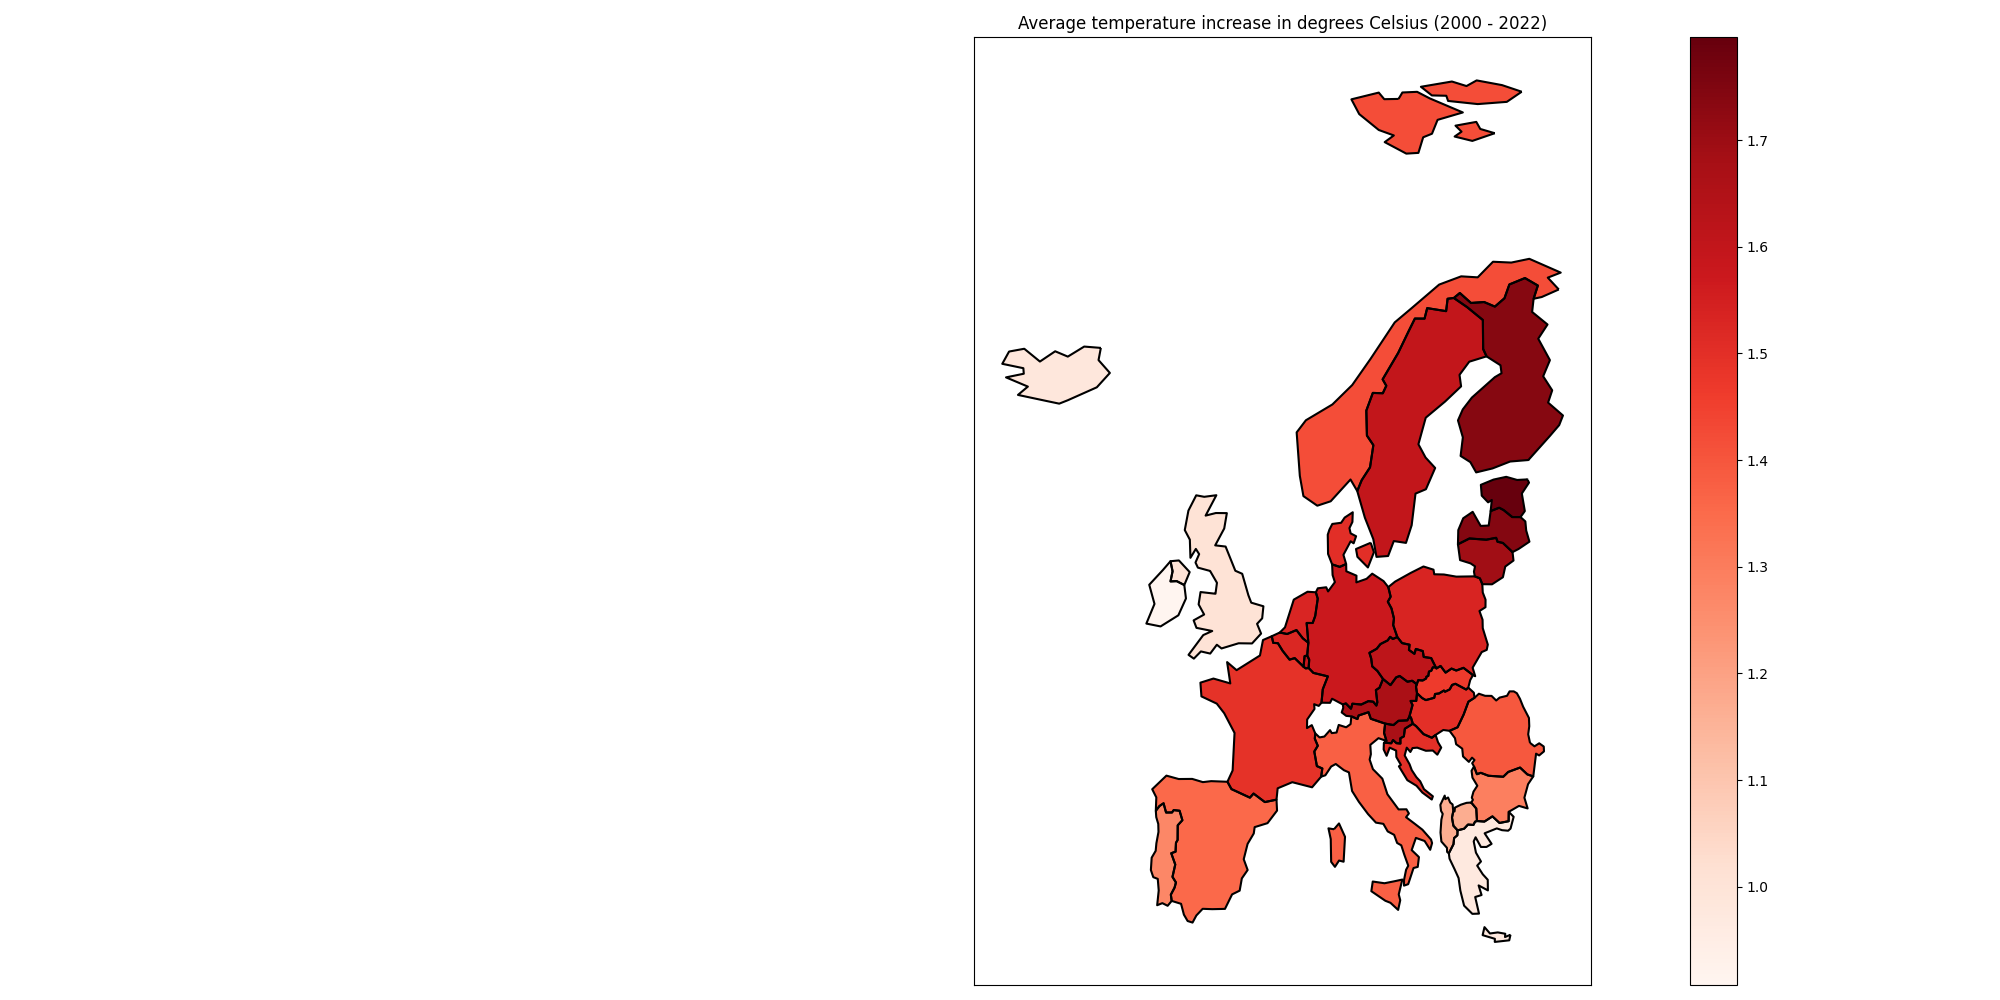
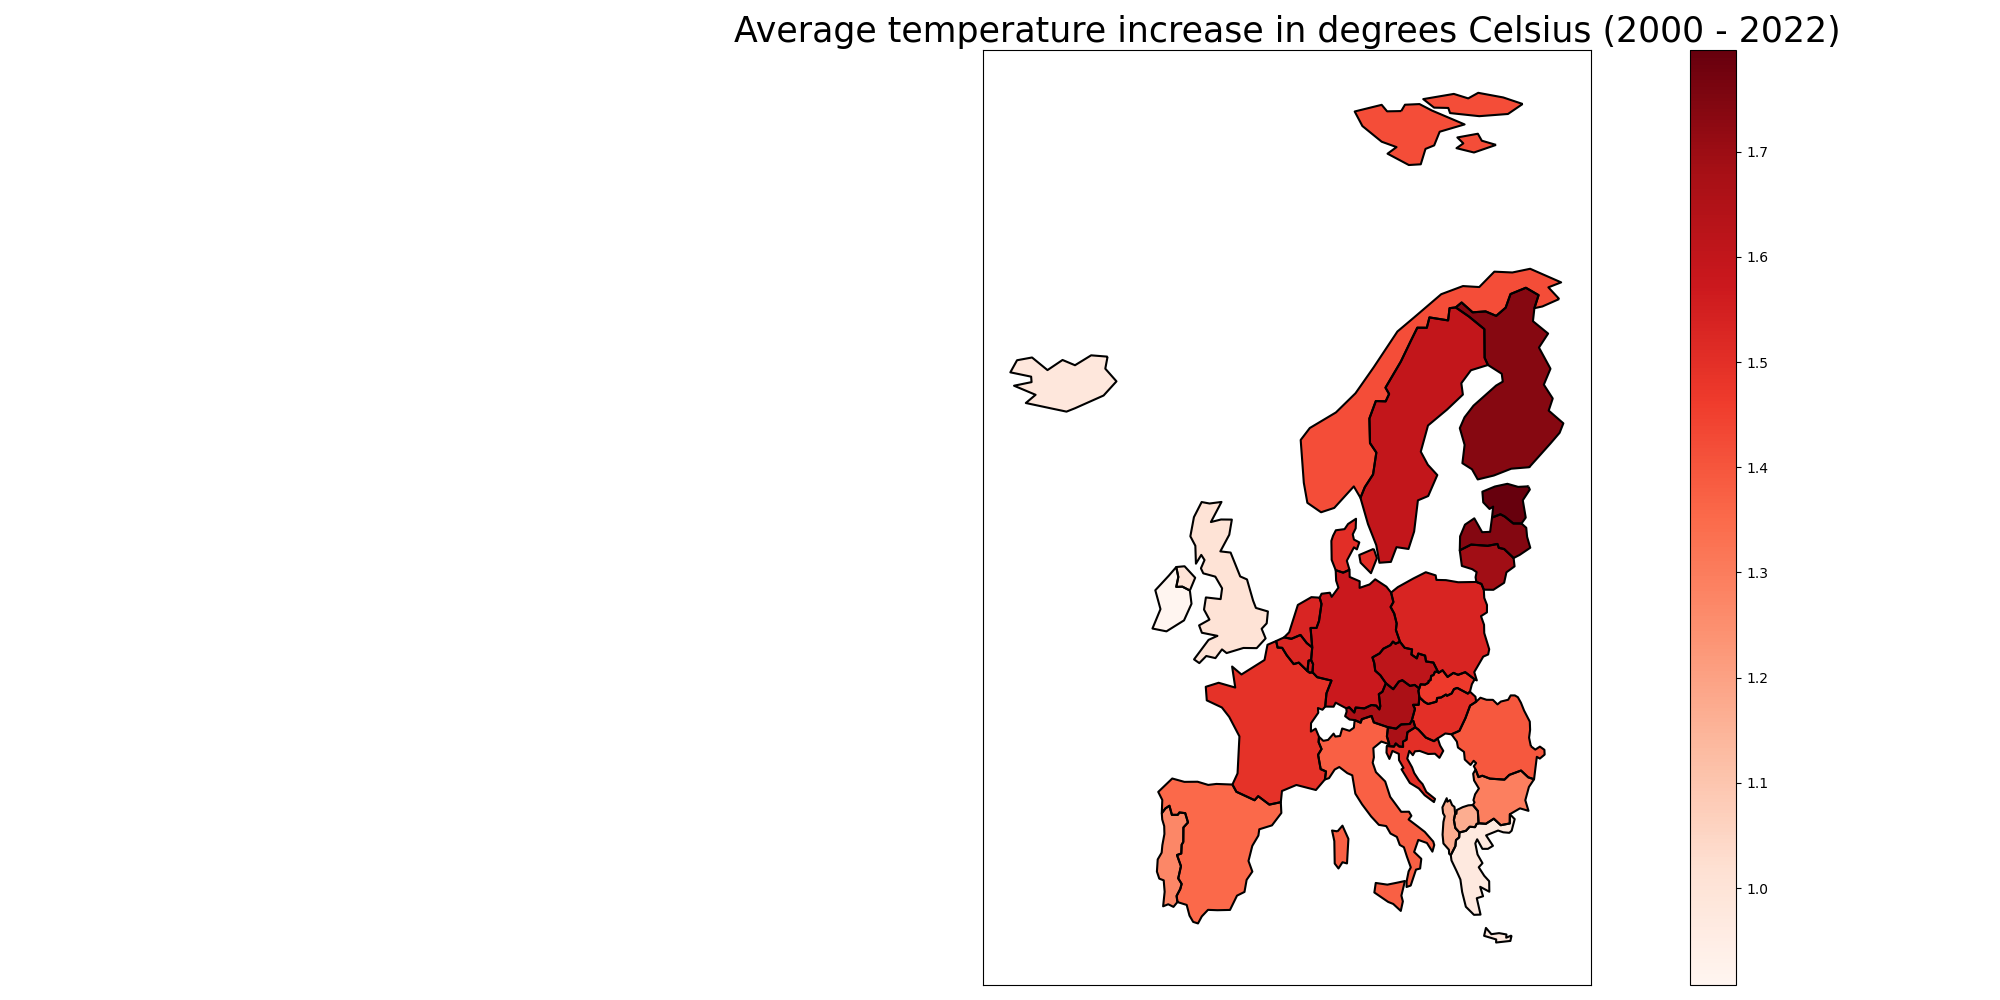
Added function for creating twinx scatterplots

diff --git a/project/analysis.py b/project/analysis.py
@@ -109,7 +109,7 @@ class Analysis:
             europe_avg.plot(column=column+"_avg", ax=ax, legend=True, cmap="Reds")
 
             if column == "CHANGE_INDICATOR":
-                plt.title("Average temperature increase in degrees Celsius (2000 - 2022)")
+                plt.title("Average temperature increase in degrees Celsius (2000 - 2022)", fontsize=25)
             else:
                 plt.title(f"Average {self.column_name_to_title_description[column]} (2000 - 2022)")
                 
@@ -211,7 +211,8 @@ class Analysis:
             self,
             column_x: str, 
             column_y: str, 
-            average: bool = False) -> None:
+            average: bool = False
+            ) -> None:
         
         if column_x not in self.europe.columns:
             raise ValueError(f"Column {column_x} not in the dataframe")
@@ -238,23 +239,42 @@ class Analysis:
 
         plt.show()
 
-    def create_correlation_plot(self) -> None:
+    def create_correlation_plot(
+            self, 
+            method: str = "spearman",
+            label_fontsize: int = 15, 
+            annot_fontsize: int = 10
+            ) -> None:
+
         plt.figure(figsize=(12, 10))
         
         tmp_europe = self.europe.drop(
             ["TIME_PERIOD", "geometry", "COUNTRY"], axis=1)
 
-        sns.heatmap(tmp_europe.corr(), annot=True, cmap="coolwarm")
+        sns.heatmap(
+            tmp_europe.corr(method=method), 
+            annot=True, 
+            cmap="coolwarm", 
+            annot_kws={"size": annot_fontsize}
+            )
         
-        save_path = os.path.join(self.PLOT_ROOT_DIR, "correlation_plot.png")
+        plt.xticks(fontsize=label_fontsize)
+        plt.yticks(fontsize=label_fontsize)
+
+        save_path = os.path.join(self.PLOT_ROOT_DIR, f"{method}_correlation_plot.png")
         plt.savefig(save_path)
         plt.show()
 
-    def twinx_plot(
+    def twinx_scatterplot(
             self, 
             column_1: str, 
             column_2: str, 
-            average: bool = True) -> None:
+            average: bool = True,
+            title_fontsize: int = 20,
+            label_fontsize: int = 15,
+            tick_fontsize: int = 10,
+            s: int = 40
+            ) -> None:
 
         if column_1 not in self.europe.columns:
             raise ValueError(f"Column {column_1} not in the dataframe")
@@ -264,30 +284,33 @@ class Analysis:
         fig, ax1 = plt.subplots(figsize=(20, 10))
 
         if average:
-            average_data_1 = self.europe.groupby("TIME_PERIOD")[column_1].mean().reset_index()
-            europe_avg_1 = self.europe.drop_duplicates("TIME_PERIOD").merge(
-                average_data_1, on="TIME_PERIOD", suffixes=("", "_avg"))
+            # TODO: make the x-axis universal
+            average_change = self.europe.groupby("COUNTRY")["CHANGE_INDICATOR"].mean().reset_index()
+            average_data_1 = self.europe.groupby("COUNTRY")[column_1].mean().reset_index()
+            average_data_2 = self.europe.groupby("COUNTRY")[column_2].mean().reset_index()
 
-            sns.lineplot(data=europe_avg_1, x="TIME_PERIOD", y=column_1+"_avg", ax=ax1)
-            ax1.set_ylabel(self.column_name_to_title_description[column_1])
-            ax1.set_xlabel("Year")
+            average_change = average_change.merge(average_data_1, on="COUNTRY", suffixes=("", "_avg"))
+            average_change = average_change.merge(average_data_2, on="COUNTRY", suffixes=("", "_avg"))
+
+            sns.scatterplot(data=average_change, x="CHANGE_INDICATOR", y=column_1, ax=ax1, color="blue", s=s)
+            ax1.set_ylabel(column_1, fontsize=label_fontsize)
+            ax1.set_xlabel(self.column_name_to_title_description["CHANGE_INDICATOR"], fontsize=label_fontsize)
             ax1.grid(True)
 
             ax2 = ax1.twinx()
-            average_data_2 = self.europe.groupby("TIME_PERIOD")[column_2].mean().reset_index()
-            europe_avg_2 = self.europe.drop_duplicates("TIME_PERIOD").merge(
-                average_data_2, on="TIME_PERIOD", suffixes=("", "_avg"))
+            sns.scatterplot(data=average_change, x="CHANGE_INDICATOR", y=column_2, ax=ax2, color="red", s=s)
+            ax2.set_ylabel(column_2, fontsize=label_fontsize)
 
-            sns.lineplot(data=europe_avg_2, x="TIME_PERIOD", y=column_2+"_avg", ax=ax2, color="red")
-            ax2.set_ylabel(self.column_name_to_title_description[column_2], color="red")
-
-            plt.title(f"Average {self.column_name_to_title_description[column_1]} and {self.column_name_to_title_description[column_2]} over the years")
+            plt.title(f"Averaged {column_1} and {column_2}", fontsize=title_fontsize)
 
             # Creating unified legend
-            legend_handles = [Line2D([0], [0], color='blue', label=column_1),
-                            Line2D([0], [0], color='red', label=column_2)]
-            ax1.legend(handles=legend_handles)
-
+            legend_handles = [Line2D([0], [0], color="blue", label=column_1),
+                            Line2D([0], [0], color="red", label=column_2)]
+            ax1.legend(handles=legend_handles, fontsize=label_fontsize)
+            
+            ax1.tick_params(axis="both", which="major", labelsize=tick_fontsize)
+            ax2.tick_params(axis="both", which="major", labelsize=tick_fontsize)
+            
         else:
             self.europe.plot(x="TIME_PERIOD", y=column_1, legend=False)
             plt.title(self.column_name_to_title_description[column_1])
@@ -297,19 +320,78 @@ class Analysis:
             plt.title(self.column_name_to_title_description[column_2])
 
         
-        save_path = os.path.join(self.PLOT_ROOT_DIR, column_1 + "_" + column_2 + "_twinx_plot.png")
+        save_path = os.path.join(self.PLOT_ROOT_DIR, column_1 + "_" + column_2 + "_scatter_twinx_plot.png")
         plt.savefig(save_path)
 
         plt.show()
+    
+
+    def twinx_lineplot(
+                self, 
+                column_1: str, 
+                column_2: str, 
+                average: bool = True,
+                title_fontsize: int = 20,
+                label_fontsize: int = 15,
+                tick_fontsize: int = 10
+                ) -> None:
+
+            if column_1 not in self.europe.columns:
+                raise ValueError(f"Column {column_1} not in the dataframe")
+            if column_2 not in self.europe.columns:
+                raise ValueError(f"Column {column_2} not in the dataframe")
+            
+            fig, ax1 = plt.subplots(figsize=(20, 10))
+
+            if average:
+                average_data_1 = self.europe.groupby("TIME_PERIOD")[column_1].mean().reset_index()
+                europe_avg_1 = self.europe.drop_duplicates("TIME_PERIOD").merge(
+                    average_data_1, on="TIME_PERIOD", suffixes=("", "_avg"))
+
+                sns.lineplot(data=europe_avg_1, x="TIME_PERIOD", y=column_1, ax=ax1)
+                ax1.set_ylabel(column_1, fontsize=label_fontsize)
+                ax1.set_xlabel("Year", fontsize=label_fontsize)
+                ax1.grid(True)
+
+                ax2 = ax1.twinx()
+                average_data_2 = self.europe.groupby("TIME_PERIOD")[column_2].mean().reset_index()
+                europe_avg_2 = self.europe.drop_duplicates("TIME_PERIOD").merge(
+                    average_data_2, on="TIME_PERIOD", suffixes=("", "_avg"))
+
+                sns.lineplot(data=europe_avg_2, x="TIME_PERIOD", y=column_2, ax=ax2, color="red")
+                ax2.set_ylabel(column_2, fontsize=label_fontsize)
+
+                plt.title(f"Averaged {column_1} and {column_2} for all countries", fontsize=title_fontsize)
+
+                # Creating unified legend
+                legend_handles = [Line2D([0], [0], color="blue", label=column_1),
+                                Line2D([0], [0], color="red", label=column_2)]
+                ax1.legend(handles=legend_handles, fontsize=label_fontsize)
+
+                ax1.tick_params(axis="both", which="major", labelsize=tick_fontsize)
+                ax2.tick_params(axis="both", which="major", labelsize=tick_fontsize)
+
+            else:
+                self.europe.plot(x="TIME_PERIOD", y=column_1, legend=False)
+                plt.title(self.column_name_to_title_description[column_1])
+
+                ax2 = ax1.twinx()
+                self.europe.plot(x="TIME_PERIOD", y=column_2, legend=False, ax=ax2, color="red")
+                plt.title(self.column_name_to_title_description[column_2])
+
+            
+            save_path = os.path.join(self.PLOT_ROOT_DIR, column_1 + "_" + column_2 + "_line_twinx_plot.png")
+            plt.savefig(save_path)
+
+            plt.show()
 
 
 if __name__ == "__main__":
     data_path = os.path.join(ROOT_DIR, "final_data.csv")
     
     data = pd.read_csv(data_path)
-
     analysis = Analysis(data)
-    
+
     analysis.create_map_plot("CHANGE_INDICATOR", average=True)
 
     analysis.create_heatmap("CHANGE_INDICATOR", cmap="Reds")
@@ -335,5 +417,27 @@ if __name__ == "__main__":
     analysis.create_scatterplot("CHANGE_INDICATOR", "TOE_HAB", average=True)
     analysis.create_scatterplot("CHANGE_INDICATOR", "MTOE", average=True)
 
-    analysis.create_correlation_plot()
-    analysis.twinx_plot("MTOE", "TOE_HAB", average=True)
+    analysis.create_correlation_plot(
+        label_fontsize=20,
+        annot_fontsize=20,
+        method="spearman")
+
+    analysis.twinx_lineplot(
+        "MTOE", 
+        "TOE_HAB", 
+        average=True,
+        title_fontsize=30,
+        label_fontsize=30,
+        tick_fontsize=25
+        )
+
+    analysis.twinx_scatterplot(
+        "MTOE",
+        "TOE_HAB",
+        average=True,
+        title_fontsize=30,
+        label_fontsize=30,
+        tick_fontsize=25,
+        s=70
+        )
+
